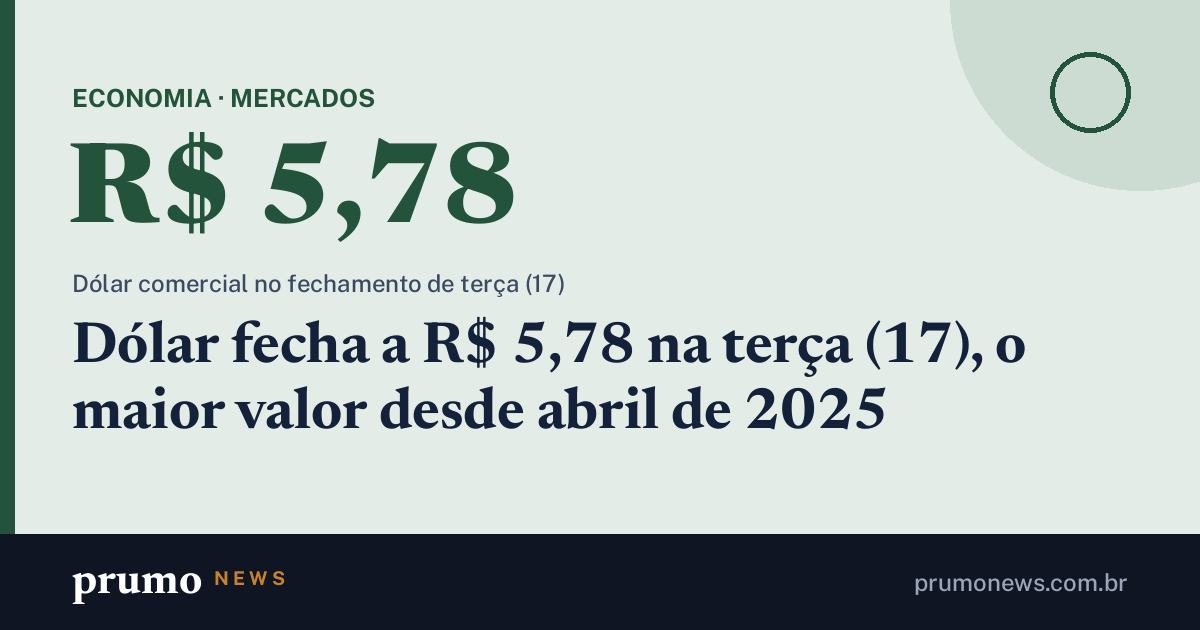
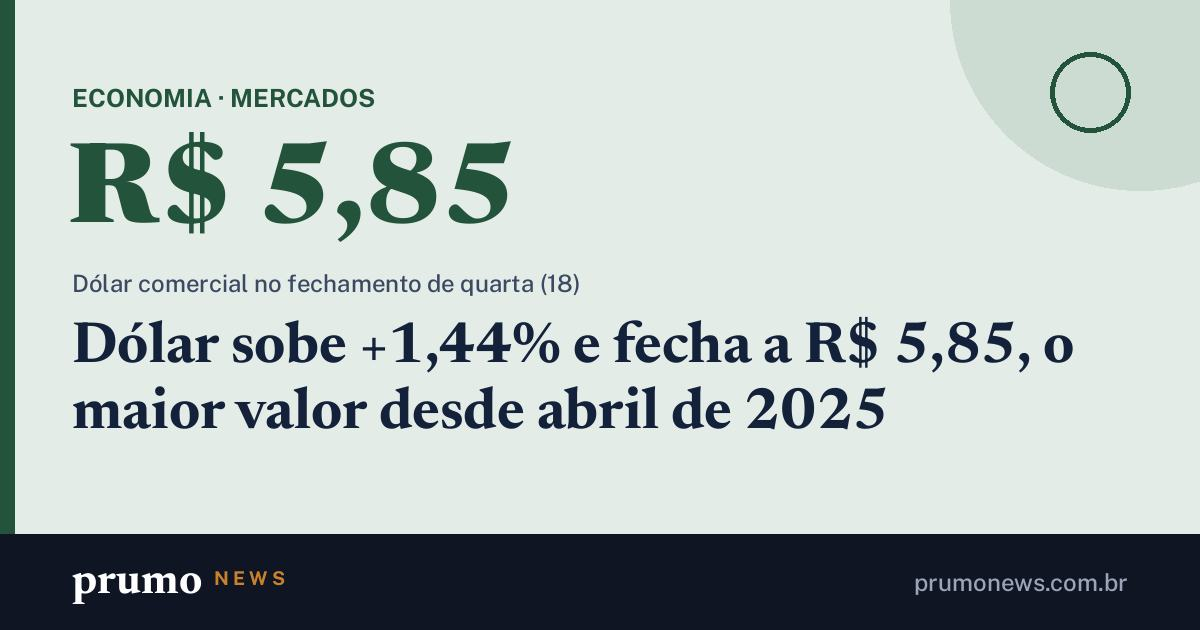
Páginas de compartilhamento 18/11 19h51

Changed region(s): [[0.185, 0.5127, 0.8942, 0.6032], [0.3083, 0.2111, 0.4317, 0.3619], [0.37, 0.4222, 0.4933, 0.4825]]

diff --git a/m/dolar-volta-acima-5.html b/m/dolar-volta-acima-5.html
@@ -3,16 +3,16 @@
 <head>
 <meta charset="utf-8">
 <meta name="viewport" content="width=device-width, initial-scale=1">
-<title>Dólar fecha a R$ 5,78 na terça (17), o maior valor desde abril de 2025 · Prumo News</title>
-<meta name="description" content="A votação dos destaques do ajuste fiscal ficou para quarta (18); o BC faz dois leilões de linha, de até US$ 1 bi, e a ata do Fed sai às 16h.">
-<link rel="canonical" href="https://prumonews.com.br/m/dolar-fecha-a-na-o-maior-valor-desde-abril-de-2025.html">
+<title>Dólar sobe +1,44% e fecha a R$ 5,85, o maior valor desde abril de 2025 · Prumo News</title>
+<meta name="description" content="O dólar sobe +1,44% e bate R$ 5,85; o Ibovespa fecha em queda de -1,34%, a 167.538 pontos.">
+<link rel="canonical" href="https://prumonews.com.br/m/dolar-sobe-e-fecha-a-o-maior-valor-desde-abril-de-2025.html">
 <meta property="og:type" content="article">
 <meta property="og:site_name" content="Prumo News">
 <meta property="og:locale" content="pt_BR">
-<meta property="og:title" content="Dólar fecha a R$ 5,78 na terça (17), o maior valor desde abril de 2025">
-<meta property="og:description" content="A votação dos destaques do ajuste fiscal ficou para quarta (18); o BC faz dois leilões de linha, de até US$ 1 bi, e a ata do Fed sai às 16h.">
-<meta property="og:url" content="https://prumonews.com.br/m/dolar-fecha-a-na-o-maior-valor-desde-abril-de-2025.html">
-<meta property="og:image" content="https://prumonews.com.br/m/og/dolar-volta-acima-5.jpg?v=02f6958f95">
+<meta property="og:title" content="Dólar sobe +1,44% e fecha a R$ 5,85, o maior valor desde abril de 2025">
+<meta property="og:description" content="O dólar sobe +1,44% e bate R$ 5,85; o Ibovespa fecha em queda de -1,34%, a 167.538 pontos.">
+<meta property="og:url" content="https://prumonews.com.br/m/dolar-sobe-e-fecha-a-o-maior-valor-desde-abril-de-2025.html">
+<meta property="og:image" content="https://prumonews.com.br/m/og/dolar-volta-acima-5.jpg?v=db0bff0b63">
 <meta property="og:image:width" content="1200">
 <meta property="og:image:height" content="630">
 <meta name="twitter:card" content="summary_large_image">
@@ -20,5 +20,5 @@
 <script>location.replace("/#m=dolar-volta-acima-5")</script>
 <style>body{margin:0;font:16px/1.5 system-ui,sans-serif;background:#0f1522;color:#e8ecf2;display:grid;place-items:center;min-height:100vh;padding:24px;box-sizing:border-box;text-align:center}a{color:#e6b673}</style>
 </head>
-<body><p><a href="/#m=dolar-volta-acima-5">Dólar fecha a R$ 5,78 na terça (17), o maior valor desde abril de 2025</a><br>Abrindo no Prumo News…</p></body>
+<body><p><a href="/#m=dolar-volta-acima-5">Dólar sobe +1,44% e fecha a R$ 5,85, o maior valor desde abril de 2025</a><br>Abrindo no Prumo News…</p></body>
 </html>

diff --git a/m/goldman-rebaixa-brasil-neutro.html b/m/goldman-rebaixa-brasil-neutro.html
@@ -3,20 +3,20 @@
 <head>
 <meta charset="utf-8">
 <meta name="viewport" content="width=device-width, initial-scale=1">
-<title>Goldman rebaixa a Bolsa brasileira a neutro e cita risco fiscal · Prumo News</title>
+<title>Goldman rebaixa a Bolsa brasileira a neutro; Ibovespa cai -1,34% na quarta (18) · Prumo News</title>
 <meta name="description" content="O banco projeta PIB de 0,6% em 2027, ante 1,6% neste ano, e vê espaço limitado para cortar os juros.">
-<link rel="canonical" href="https://prumonews.com.br/m/goldman-rebaixa-a-bolsa-brasileira-a-neutro-e-cita-risco-fiscal.html">
+<link rel="canonical" href="https://prumonews.com.br/m/goldman-rebaixa-a-bolsa-brasileira-a-neutro-ibovespa-cai-na.html">
 <meta property="og:type" content="article">
 <meta property="og:site_name" content="Prumo News">
 <meta property="og:locale" content="pt_BR">
-<meta property="og:title" content="Goldman rebaixa a Bolsa brasileira a neutro e cita risco fiscal">
+<meta property="og:title" content="Goldman rebaixa a Bolsa brasileira a neutro; Ibovespa cai -1,34% na quarta (18)">
 <meta property="og:description" content="O banco projeta PIB de 0,6% em 2027, ante 1,6% neste ano, e vê espaço limitado para cortar os juros.">
-<meta property="og:url" content="https://prumonews.com.br/m/goldman-rebaixa-a-bolsa-brasileira-a-neutro-e-cita-risco-fiscal.html">
+<meta property="og:url" content="https://prumonews.com.br/m/goldman-rebaixa-a-bolsa-brasileira-a-neutro-ibovespa-cai-na.html">
 <meta property="og:image" content="https://upload.wikimedia.org/wikipedia/commons/thumb/e/e7/Bovespa%2C_S%C3%A3o_Paulo_city_downtown.jpg/960px-Bovespa%2C_S%C3%A3o_Paulo_city_downtown.jpg">
 <meta name="twitter:card" content="summary_large_image">
 <meta name="theme-color" content="#0f1522">
 <script>location.replace("/#m=goldman-rebaixa-brasil-neutro")</script>
 <style>body{margin:0;font:16px/1.5 system-ui,sans-serif;background:#0f1522;color:#e8ecf2;display:grid;place-items:center;min-height:100vh;padding:24px;box-sizing:border-box;text-align:center}a{color:#e6b673}</style>
 </head>
-<body><p><a href="/#m=goldman-rebaixa-brasil-neutro">Goldman rebaixa a Bolsa brasileira a neutro e cita risco fiscal</a><br>Abrindo no Prumo News…</p></body>
+<body><p><a href="/#m=goldman-rebaixa-brasil-neutro">Goldman rebaixa a Bolsa brasileira a neutro; Ibovespa cai -1,34% na quarta (18)</a><br>Abrindo no Prumo News…</p></body>
 </html>

diff --git a/m/goldman-rebaixa-a-bolsa-brasileira-a-neutro-ibovespa-cai-na.html b/m/goldman-rebaixa-a-bolsa-brasileira-a-neutro-ibovespa-cai-na.html
@@ -1,0 +1,22 @@
+<!doctype html>
+<html lang="pt-BR">
+<head>
+<meta charset="utf-8">
+<meta name="viewport" content="width=device-width, initial-scale=1">
+<title>Goldman rebaixa a Bolsa brasileira a neutro; Ibovespa cai -1,34% na quarta (18) · Prumo News</title>
+<meta name="description" content="O banco projeta PIB de 0,6% em 2027, ante 1,6% neste ano, e vê espaço limitado para cortar os juros.">
+<link rel="canonical" href="https://prumonews.com.br/m/goldman-rebaixa-a-bolsa-brasileira-a-neutro-ibovespa-cai-na.html">
+<meta property="og:type" content="article">
+<meta property="og:site_name" content="Prumo News">
+<meta property="og:locale" content="pt_BR">
+<meta property="og:title" content="Goldman rebaixa a Bolsa brasileira a neutro; Ibovespa cai -1,34% na quarta (18)">
+<meta property="og:description" content="O banco projeta PIB de 0,6% em 2027, ante 1,6% neste ano, e vê espaço limitado para cortar os juros.">
+<meta property="og:url" content="https://prumonews.com.br/m/goldman-rebaixa-a-bolsa-brasileira-a-neutro-ibovespa-cai-na.html">
+<meta property="og:image" content="https://upload.wikimedia.org/wikipedia/commons/thumb/e/e7/Bovespa%2C_S%C3%A3o_Paulo_city_downtown.jpg/960px-Bovespa%2C_S%C3%A3o_Paulo_city_downtown.jpg">
+<meta name="twitter:card" content="summary_large_image">
+<meta name="theme-color" content="#0f1522">
+<script>location.replace("/#m=goldman-rebaixa-brasil-neutro")</script>
+<style>body{margin:0;font:16px/1.5 system-ui,sans-serif;background:#0f1522;color:#e8ecf2;display:grid;place-items:center;min-height:100vh;padding:24px;box-sizing:border-box;text-align:center}a{color:#e6b673}</style>
+</head>
+<body><p><a href="/#m=goldman-rebaixa-brasil-neutro">Goldman rebaixa a Bolsa brasileira a neutro; Ibovespa cai -1,34% na quarta (18)</a><br>Abrindo no Prumo News…</p></body>
+</html>

diff --git a/m/dolar-sobe-e-fecha-a-o-maior-valor-desde-abril-de-2025.html b/m/dolar-sobe-e-fecha-a-o-maior-valor-desde-abril-de-2025.html
@@ -1,0 +1,24 @@
+<!doctype html>
+<html lang="pt-BR">
+<head>
+<meta charset="utf-8">
+<meta name="viewport" content="width=device-width, initial-scale=1">
+<title>Dólar sobe +1,44% e fecha a R$ 5,85, o maior valor desde abril de 2025 · Prumo News</title>
+<meta name="description" content="O dólar sobe +1,44% e bate R$ 5,85; o Ibovespa fecha em queda de -1,34%, a 167.538 pontos.">
+<link rel="canonical" href="https://prumonews.com.br/m/dolar-sobe-e-fecha-a-o-maior-valor-desde-abril-de-2025.html">
+<meta property="og:type" content="article">
+<meta property="og:site_name" content="Prumo News">
+<meta property="og:locale" content="pt_BR">
+<meta property="og:title" content="Dólar sobe +1,44% e fecha a R$ 5,85, o maior valor desde abril de 2025">
+<meta property="og:description" content="O dólar sobe +1,44% e bate R$ 5,85; o Ibovespa fecha em queda de -1,34%, a 167.538 pontos.">
+<meta property="og:url" content="https://prumonews.com.br/m/dolar-sobe-e-fecha-a-o-maior-valor-desde-abril-de-2025.html">
+<meta property="og:image" content="https://prumonews.com.br/m/og/dolar-volta-acima-5.jpg?v=db0bff0b63">
+<meta property="og:image:width" content="1200">
+<meta property="og:image:height" content="630">
+<meta name="twitter:card" content="summary_large_image">
+<meta name="theme-color" content="#0f1522">
+<script>location.replace("/#m=dolar-volta-acima-5")</script>
+<style>body{margin:0;font:16px/1.5 system-ui,sans-serif;background:#0f1522;color:#e8ecf2;display:grid;place-items:center;min-height:100vh;padding:24px;box-sizing:border-box;text-align:center}a{color:#e6b673}</style>
+</head>
+<body><p><a href="/#m=dolar-volta-acima-5">Dólar sobe +1,44% e fecha a R$ 5,85, o maior valor desde abril de 2025</a><br>Abrindo no Prumo News…</p></body>
+</html>
